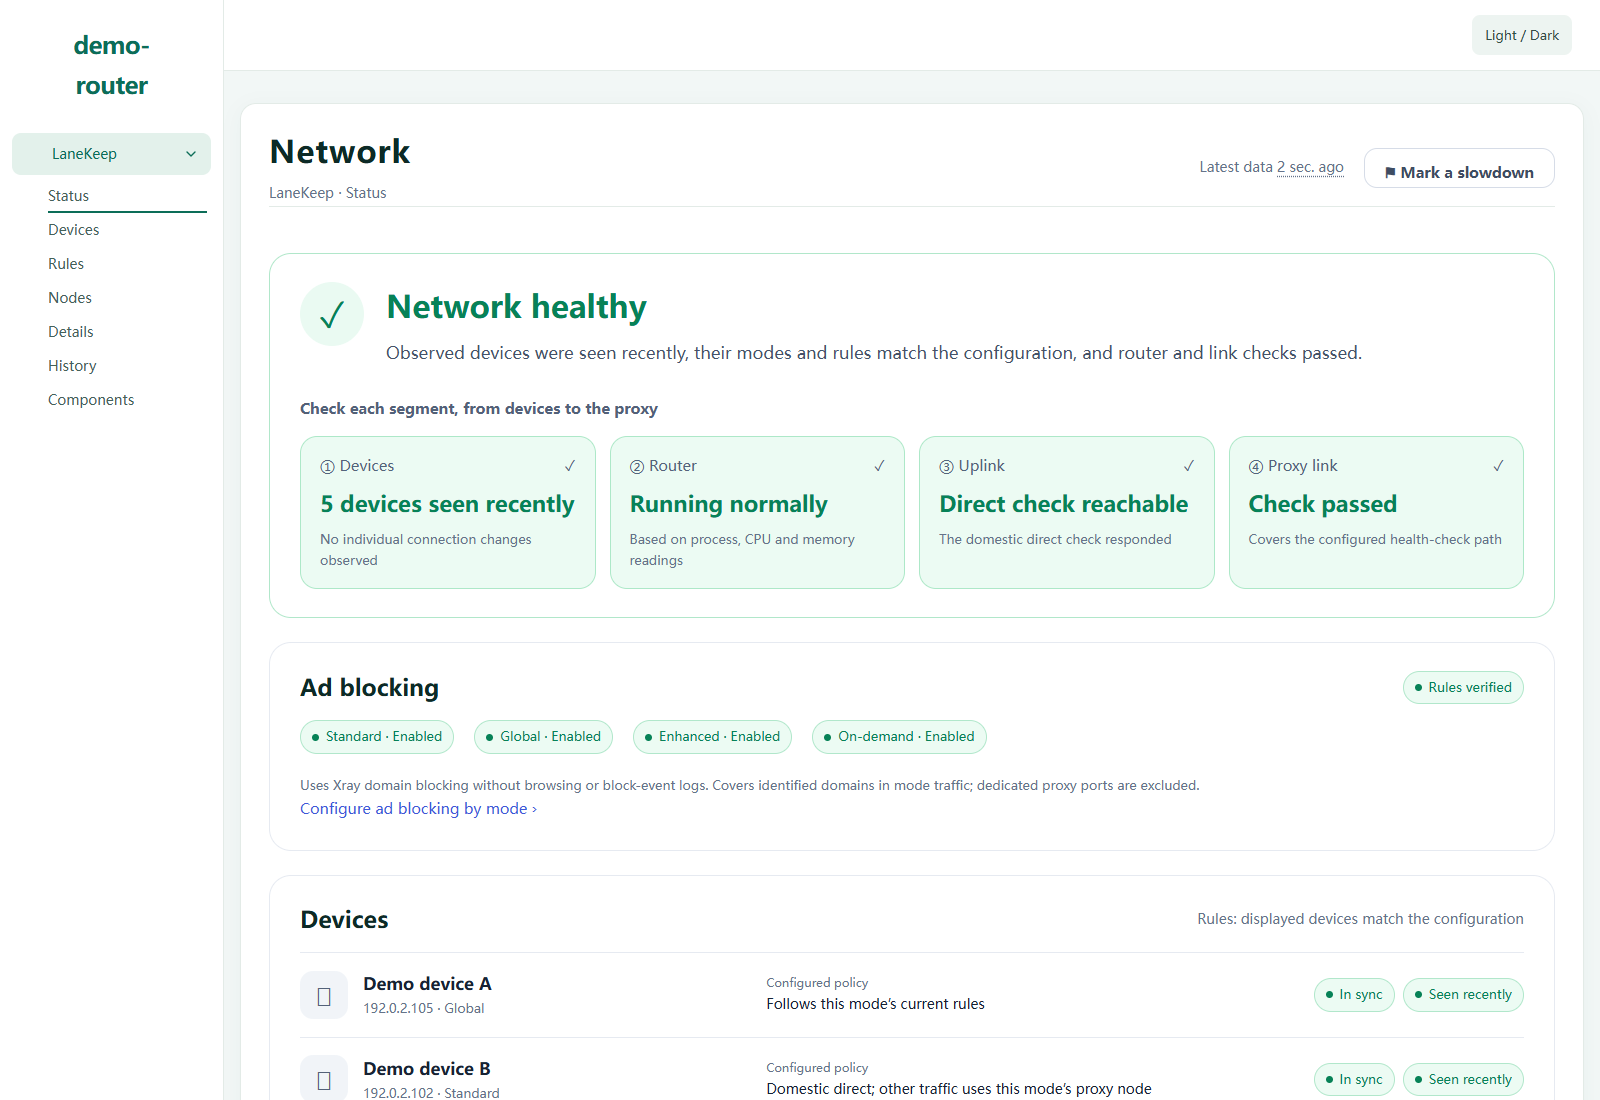
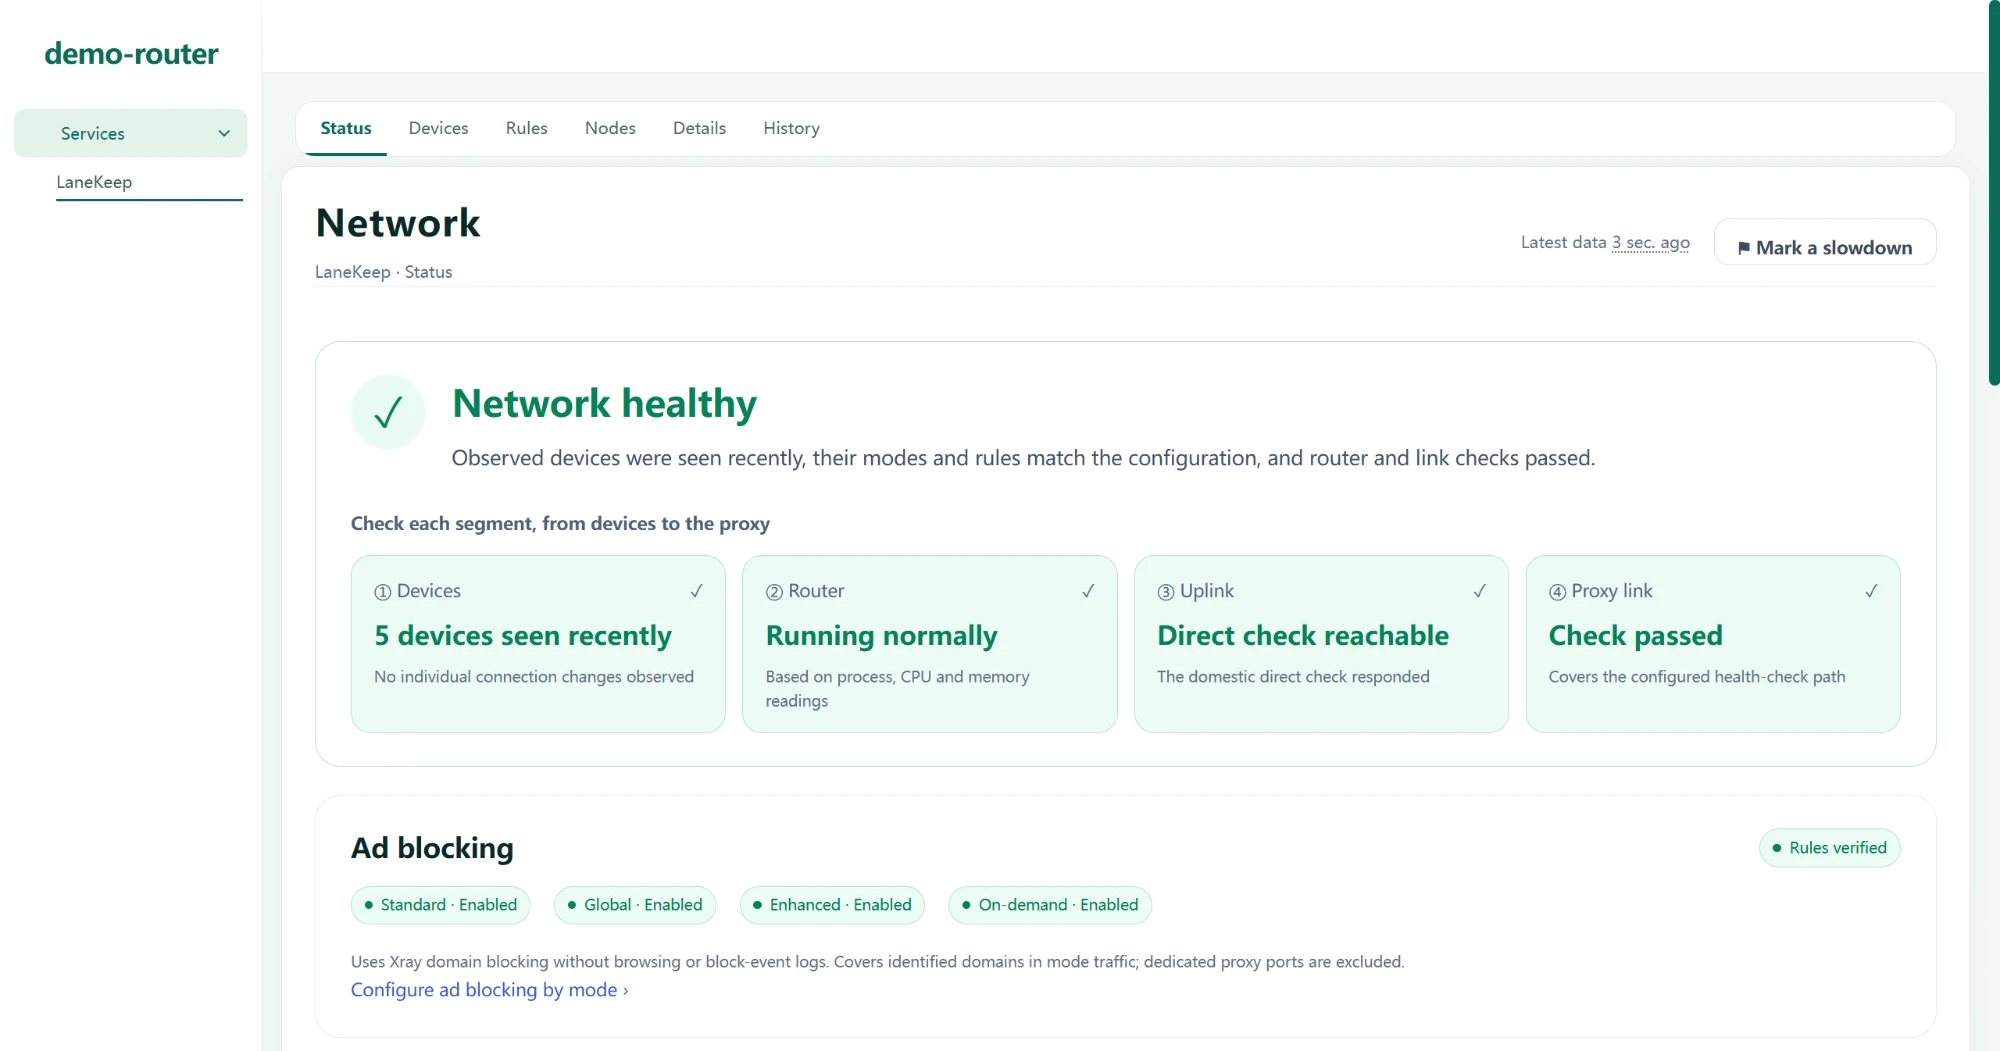
Use LuCI tabs in the demo preview and refresh the status screenshots
The preview shell now shows the six LaneKeep pages as Argon tabs above
the content, as a real LuCI install does, and the sidebar lists only
Services > LaneKeep. The dark control bar is gone: theme, language and a
demo-scenario menu sit in the header and are hidden with ?capture=1.
Narrow screens get short header labels and a working sidebar toggle.
The broken component-sample page and the missing gallery link are
removed. Both Status page screenshots are recaptured with the new shell
from synthetic demo data, and files.sha256 is updated.

diff --git a/tools/preview/public/app.js b/tools/preview/public/app.js
@@ -9,12 +9,18 @@ window.E=function(tag,attrs,children){
  Object.entries(attrs).forEach(([k,v])=>{if(v==null||v===false)return;if(typeof v==='function')el.addEventListener(k,v);else el.setAttribute(k,v===true?'':String(v));});
  function append(v){if(v==null)return;if(Array.isArray(v))v.forEach(append);else el.appendChild(v instanceof Node?v:document.createTextNode(String(v)));}append(children);return el;
 };
-const params=new URLSearchParams(location.search); document.documentElement.lang=params.get('lang')==='en'?'en':'zh-CN'; const pages={status:'状态',devices:'设备分组',rules:'规则',nodes:'节点',details:'详细数据',versions:'版本',components:'组件示例'};
+const params=new URLSearchParams(location.search); document.documentElement.lang=params.get('lang')==='en'?'en':'zh-CN'; const pages={status:'状态',devices:'设备分组',rules:'规则',nodes:'节点',details:'详细数据',versions:'版本'};
+const language=params.get('lang')==='en'?'en':'zh',shellTr=(zh,en)=>language==='en'?en:zh;
 let page=pages[params.get('page')]?params.get('page'):'status',theme=params.get('theme')==='dark'?'dark':'light';
 if(params.get('modal'))page='nodes';
 if(params.has('capture'))document.body.classList.add('capture');
 document.body.dataset.page='admin-services-lanekeep-'+page;
-function setTheme(value){theme=value;document.documentElement.dataset.argonMode=value;document.documentElement.setAttribute('data-darkmode',value==='dark');document.documentElement.classList.toggle('dark',value==='dark');document.querySelector('#theme-select').value=value;}
+function pageURL(id){const p=new URLSearchParams({page:id,theme,lang:language,scenario:params.get('scenario')||'normal'});if(params.has('capture'))p.set('capture','1');return '?'+p;}
+// Same markup luci-theme-argon renders for a firstchild menu node: ul.tabs > li.tabmenu-item-<name>[.active] > a.
+document.querySelector('#tabmenu').append(E('ul',{class:'tabs'},Object.entries(pages).map(([id,label])=>E('li',{class:'tabmenu-item-'+id+(page===id?' active':'')},E('a',{href:pageURL(id),'data-page':id,'aria-current':page===id?'page':null},label)))));
+document.querySelectorAll('.brand,#sidebar-lanekeep').forEach(a=>a.dataset.page='status');
+function refreshLinks(){document.querySelectorAll('a[data-page]').forEach(a=>a.setAttribute('href',pageURL(a.dataset.page)));}
+function setTheme(value){theme=value;document.documentElement.dataset.argonMode=value;document.documentElement.setAttribute('data-darkmode',value==='dark');document.documentElement.classList.toggle('dark',value==='dark');refreshLinks();}
 setTheme(theme);
 const ui={
  menu:{load:()=>Promise.resolve({children:{admin:{children:{services:{children:{lanekeep:{children:{details:{}}}}}}}}}),flushCache:()=>{}},
@@ -28,7 +34,7 @@ const request={post:()=>Promise.reject(new Error('HTTP RPC is disabled in local 
 const real=window.__lkReal;window.L=Object.create(window.LuCI.prototype);L.loaded=true;
 real.env.base_url='/luci-static/resources';real.env.lang=document.documentElement.lang;real.env.resource='/luci-static/resources';
 L.resource=p=>'/luci-static/resources/'+p;L.hasViewPermission=()=>true;
-L.url=(...path)=>{const p=path.join('/').split('/').pop();return pages[p]?'?'+new URLSearchParams({page:p,theme,lang:params.get('lang')||'zh',scenario:params.get('scenario')||'normal'}):'#preview-only';};
+L.url=(...path)=>{const p=path.join('/').split('/').pop();return pages[p]?pageURL(p):'#preview-only';};
 real.classes.ui=Object.assign(ui,{addNotification:(title,node)=>{window.lkOfflineNotifications.push({title:String(title),text:node&&node.textContent||''});}});
 window.lkOfflineNotifications=[];real.classes.rpc=rpc;real.classes.request=request;
 real.classes.uci={load:function(){return Promise.resolve();},sections:function(){return [{zonename:params.get('tz')||'Asia/Shanghai',timezone:params.has('tz')?'':'CST-8'}];}};
@@ -39,17 +45,30 @@ real.View.prototype.__init__=function(){window.lkOfflineViewReady=realViewInit.a
 window.previewLoadModule=loadModule;
 async function loadModule(name){return L.require(window.LaneKeepModules[name]||name);}
 
-function navigate(){const p=new URLSearchParams({page:document.querySelector('#page-select').value,scenario:document.querySelector('#scenario-select').value,theme:document.querySelector('#theme-select').value,lang:document.querySelector('#language-select').value});const modal=document.querySelector('#modal-select').value;if(modal){p.set('page','nodes');p.set('modal',modal);}location.search=p;}
-Object.entries(pages).forEach(([id,label])=>{document.querySelector('#page-select').append(E('option',{value:id},label));document.querySelector('#navigation').append(E('li',{class:page===id?'active':''},E('a',{href:'?'+new URLSearchParams({page:id,theme,lang:params.get('lang')||'zh',scenario:params.get('scenario')||'normal'})},label)));});
-document.querySelector('#language-select').value=params.get('lang')||'zh';document.querySelector('#page-select').value=page;document.querySelector('#scenario-select').value=params.get('scenario')||'normal';document.querySelector('#modal-select').value=params.get('modal')||'';
-['page','scenario','theme','modal','language'].forEach(id=>document.querySelector('#'+id+'-select').addEventListener('change',navigate));
+// Preview-only switches live in the header; ?capture=1 hides them and keeps the LuCI tabs.
+if(language==='en'){document.title='LaneKeep · Local preview';document.querySelector('.showSide').setAttribute('aria-label','Toggle navigation');document.querySelector('#preview-controls').setAttribute('aria-label','Local preview controls');var previewWords={'服务':'Services','演示场景':'Demo scenario','场景':'Scenario','弹窗':'Dialog','一切正常':'Normal','异常和报错':'Errors','空列表':'Empty','名称保真检查':'Name fidelity','名称超长':'Long names','18 个节点':'18 nodes','首次读取失败':'First read fails','断线保护已触发':'Kill switch triggered','断线保护未知':'Kill switch unknown','测试失败':'Test failed','实验性节点':'Experimental node','按钮不可用':'Disabled actions','RPC 读取失败':'Read failure','无':'None','新增节点':'Add node','新增两跳链':'Add chain','分享链接 / 订阅导入':'Import','本地假数据 · RPC 仅内存模拟 · 刷新复原':'Demo data · In-memory RPC · Reload to reset','浅色 / 深色':'Light / Dark','浅 / 深':'Theme'};document.querySelectorAll('#preview-controls,#mainmenu').forEach(root=>{var walker=document.createTreeWalker(root,NodeFilter.SHOW_TEXT);while(walker.nextNode()){var text=walker.currentNode,key=text.data.trim();if(previewWords[key])text.data=text.data.replace(key,previewWords[key]);}});}
+function navigate(){const p=new URLSearchParams({page,scenario:document.querySelector('#scenario-select').value,theme,lang:language});const modal=document.querySelector('#modal-select').value;if(modal){p.set('page','nodes');p.set('modal',modal);}if(params.has('capture'))p.set('capture','1');location.search=p;}
+document.querySelector('#scenario-select').value=params.get('scenario')||'normal';document.querySelector('#modal-select').value=params.get('modal')||'';
+['scenario','modal'].forEach(id=>document.querySelector('#'+id+'-select').addEventListener('change',navigate));
 document.querySelector('#appearance').addEventListener('click',()=>{setTheme(theme==='dark'?'light':'dark');params.set('theme',theme);history.replaceState(null,'','?'+params);});
-document.querySelector('.showSide').addEventListener('click',()=>document.body.classList.toggle('preview-menu'));
-document.addEventListener('click',e=>{const a=e.target.closest('a');if(a?.getAttribute('href')==='#preview-only'){e.preventDefault();ui.showModal('本地预览',[E('p',{},'此入口属于路由器其他页面，本期预览范围为分流管理六页。'),E('div',{class:'right'},E('button',{class:'cbi-button',click:ui.hideModal},'关闭'))]);}});
+document.querySelector('#language').addEventListener('click',()=>{const p=new URLSearchParams(params);p.set('lang',language==='en'?'zh':'en');p.set('theme',theme);location.search=p;});
+const demo=document.querySelector('#preview-demo'),demoButton=demo.querySelector('button'),demoPanel=demo.querySelector('.preview-demo-panel');
+function toggleDemo(open){demoPanel.hidden=!open;demoButton.setAttribute('aria-expanded',String(open));}
+demoButton.addEventListener('click',()=>toggleDemo(demoPanel.hidden));
+demo.addEventListener('keydown',e=>{if(e.key==='Escape'&&!demoPanel.hidden){toggleDemo(false);demoButton.focus();}});
+// Argon's narrow-screen menu: .showSide opens .main-left.active over .darkMask.active.
+const sidebar=document.querySelector('#mainmenu'),mask=document.querySelector('.darkMask');
+function toggleMenu(open){sidebar.classList.toggle('active',open);mask.classList.toggle('active',open);}
+document.querySelector('.showSide').addEventListener('click',()=>toggleMenu(!sidebar.classList.contains('active')));
+mask.addEventListener('click',()=>toggleMenu(false));
+document.querySelector('#mainmenu .menu').addEventListener('click',e=>{e.currentTarget.classList.toggle('active');e.currentTarget.nextElementSibling.classList.toggle('active');});
+document.addEventListener('click',e=>{if(!demoPanel.hidden&&!demo.contains(e.target))toggleDemo(false);const a=e.target.closest('a');if(a?.getAttribute('href')==='#preview-only'){e.preventDefault();ui.showModal(shellTr('本地预览','Local preview'),[E('p',{},shellTr('此入口属于路由器其他页面，本期预览范围为分流管理六页。','This entry belongs to other router pages. The preview covers the six LaneKeep pages.')),E('div',{class:'right'},E('button',{class:'cbi-button',click:ui.hideModal},shellTr('关闭','Close')))]);}});
+const viewModule=window.previewReady.then(()=>loadModule('view.lanekeep.'+page));
+// Translate the tabs once the view's modules are cached, so they stay readable even if the view itself fails.
+const shellText=viewModule.then(()=>loadModule('lanekeep.i18n')).then(dict=>{document.querySelectorAll('#tabmenu a').forEach(n=>n.textContent=dict.text(n.textContent));return dict;});shellText.catch(()=>{});
 (async()=>{
- await window.previewReady;
- const module=await loadModule('view.lanekeep.'+page);await window.lkOfflineViewReady;if(window.lkOfflineNotifications.length)throw new Error('Real LuCI View initialization reported an error');
- const dict=await loadModule('lanekeep.i18n');if(dict.language==='en'){document.querySelector('#appearance').textContent='Light / Dark';document.querySelector('.showSide').setAttribute('aria-label','Toggle navigation');var previewWords={'LaneKeep · 本地假数据':'LaneKeep · Local demo','页面':'Page','场景':'Scenario','外观':'Theme','语言':'Language','弹窗':'Dialog','一切正常':'Normal','异常和报错':'Errors','空列表':'Empty','名称超长':'Long names','18 个节点':'18 nodes','首次读取失败':'First read fails','断线保护已触发':'Kill switch triggered','断线保护未知':'Kill switch unknown','测试失败':'Test failed','实验性节点':'Experimental node','按钮不可用':'Disabled actions','RPC 读取失败':'Read failure','浅色':'Light','深色':'Dark','中文':'中文','无':'None','新增节点':'Add node','新增两跳链':'Add chain','分享链接 / 订阅导入':'Import','截图目录':'Screenshot gallery','RPC 仅内存模拟 · 刷新复原':'In-memory demo · Reload to reset'};var walker=document.createTreeWalker(document.querySelector('#preview-controls'),NodeFilter.SHOW_TEXT);while(walker.nextNode()){var text=walker.currentNode,key=text.data.trim();if(previewWords[key])text.data=text.data.replace(key,previewWords[key]);}}document.querySelectorAll('#navigation a,#page-select option').forEach(n=>n.textContent=dict.text(n.textContent));
+ const module=await viewModule;await window.lkOfflineViewReady;if(window.lkOfflineNotifications.length)throw new Error('Real LuCI View initialization reported an error');
+ const dict=await shellText;
  const modal=params.get('modal');if(modal){const label={node:'新增节点',chain:'新增两跳链',import:'导入'}[modal],button=document.querySelector('.lk-page-actions')?.children[{node:3,chain:2,import:1}[modal]]||[...document.querySelectorAll('#view button')].find(b=>b.textContent===dict.text(label));if(!button)throw new Error('Dialog trigger missing');button.click();}
  document.documentElement.dataset.ready='true';
 })().catch(e=>{document.querySelector('#view').dataset.error='true';document.querySelector('#view').textContent='本地预览加载失败：'+e.message;console.error(e);document.documentElement.dataset.ready='error';});

diff --git a/tools/preview/public/index.html b/tools/preview/public/index.html
@@ -10,22 +10,21 @@
 <script src="/module-map.js" defer></script><script src="/luci-runtime.js" defer></script><script src="/mock-rpc.js" defer></script><script src="/app.js" defer></script>
 </head>
 <body class="lang_zh-cn logged-in" data-page="admin-services-lanekeep-status">
-<aside id="preview-controls" aria-label="本地预览控制">
-<strong>LaneKeep · 本地假数据</strong>
-<label>页面 <select id="page-select"></select></label>
-<label>场景 <select id="scenario-select"><option value="normal">一切正常</option><option value="error">异常和报错</option><option value="empty">空列表</option><option value="names">名称保真检查</option><option value="long">名称超长</option><option value="many">18 个节点</option><option value="rpc-once">首次读取失败</option><option value="triggered">断线保护已触发</option><option value="unknown">断线保护未知</option><option value="failed">测试失败</option><option value="experimental">实验性节点</option><option value="disabled">按钮不可用</option><option value="rpc-error">RPC 读取失败</option></select></label>
-<label>外观 <select id="theme-select"><option value="light">浅色</option><option value="dark">深色</option></select></label>
-<label>语言 <select id="language-select"><option value="zh">中文</option><option value="en">English</option></select></label>
-<label>弹窗 <select id="modal-select"><option value="">无</option><option value="node">新增节点</option><option value="chain">新增两跳链</option><option value="import">分享链接 / 订阅导入</option></select></label>
-<a href="/phase2-gallery.html">截图目录</a><span>RPC 仅内存模拟 · 刷新复原</span>
-</aside>
 <div class="main">
  <div class="main-left" id="mainmenu">
   <div class="sidenav-header d-flex align-items-center"><a class="brand" href="?page=status">demo-router</a></div>
-  <ul class="nav"><li class="slide"><a class="menu active" href="?page=status">LaneKeep</a><ul class="slide-menu" id="navigation"></ul></li></ul>
+  <ul class="nav"><li class="slide"><a class="menu active" data-title="Services">服务</a><ul class="slide-menu active"><li class="active"><a id="sidebar-lanekeep" href="?page=status">LaneKeep</a></li></ul></li></ul>
  </div>
  <div class="main-right">
-  <header class="bg-primary"><div class="fill"><div class="container"><div class="flex1"><button type="button" class="showSide" aria-label="切换导航"></button><a class="brand" href="?page=status">demo-router</a></div><div class="header-actions"><button id="appearance" type="button" class="cbi-button">浅色 / 深色</button></div></div></div></header>
+  <header class="bg-primary"><div class="fill"><div class="container"><div class="flex1"><button type="button" class="showSide" aria-label="切换导航"></button><a class="brand" href="?page=status">demo-router</a></div><div class="header-actions" id="preview-controls" role="group" aria-label="本地预览控制">
+   <div id="preview-demo"><button type="button" class="cbi-button" aria-expanded="false" aria-controls="preview-demo-panel"><span class="pv-long">演示场景</span><span class="pv-short">场景</span></button><div class="preview-demo-panel" id="preview-demo-panel" hidden>
+    <label>场景 <select id="scenario-select"><option value="normal">一切正常</option><option value="error">异常和报错</option><option value="empty">空列表</option><option value="names">名称保真检查</option><option value="long">名称超长</option><option value="many">18 个节点</option><option value="rpc-once">首次读取失败</option><option value="triggered">断线保护已触发</option><option value="unknown">断线保护未知</option><option value="failed">测试失败</option><option value="experimental">实验性节点</option><option value="disabled">按钮不可用</option><option value="rpc-error">RPC 读取失败</option></select></label>
+    <label>弹窗 <select id="modal-select"><option value="">无</option><option value="node">新增节点</option><option value="chain">新增两跳链</option><option value="import">分享链接 / 订阅导入</option></select></label>
+    <p>本地假数据 · RPC 仅内存模拟 · 刷新复原</p>
+   </div></div>
+   <button id="language" type="button" class="cbi-button"><span class="pv-long">中文 / English</span><span class="pv-short">中 / EN</span></button>
+   <button id="appearance" type="button" class="cbi-button"><span class="pv-long">浅色 / 深色</span><span class="pv-short">浅 / 深</span></button>
+  </div></div></div></header>
   <div class="darkMask"></div><div id="maincontent"><div class="container"><div id="tabmenu"></div><div id="view"><p>正在载入本地预览…</p></div></div></div>
   <footer>LuCI · Argon</footer>
  </div>

diff --git a/tools/preview/public/preview.css b/tools/preview/public/preview.css
@@ -1,8 +1,18 @@
 /* Only preview controls and template variables. No panel component overrides. */
 :root{--light-primary:#0C6D58;--dark-primary:#61bda5;--dark-on-primary:#102c25;--dark-link-color:#8ad6c1;--dark-focus-ring:#61bda5;--dark-control-focus:#61bda5;--dark-progress-fill:#61bda5;--dark-control-ring:#61bda566;--dark-selected-bg:#23473f;--dark-selected-hover-bg:#2c554b;--dark-accent-ring:#61bda577;--dark-accent-shadow:#61bda533;--blur-radius-light:10px;--blur-opacity-light:.5;--blur-radius-dark:10px;--blur-opacity-dark:.5}
-#preview-controls{position:relative;z-index:1001;padding:10px 16px;background:#183c33;color:#fff;display:flex;align-items:center;gap:10px 18px;flex-wrap:wrap;font:13px/1.6 system-ui,sans-serif}
-#preview-controls label{display:flex;align-items:center;gap:5px;margin:0;color:inherit}#preview-controls select{color:#17372e;background:#fff;border:1px solid #a3c8ba;padding:3px 6px;min-height:28px;max-width:155px}#preview-controls a{color:#a9ead6;text-decoration:underline}#preview-controls span{font-size:12px;color:#cae3da}
+.main-left .sidenav-header .brand{margin:0 1rem;white-space:nowrap;overflow:hidden;text-overflow:ellipsis}
+:root[data-argon-mode="dark"] #preview-controls .cbi-button{color:var(--text-strong);background-color:var(--surface-active)}
+#preview-demo{position:relative}
+#preview-demo>button{display:inline-flex;align-items:center;gap:6px}
+#preview-demo>button::after{content:"";width:12px;height:12px;background-color:currentColor;-webkit-mask:url(/luci-static/argon/icon/chevron-down.svg) center/contain no-repeat;mask:url(/luci-static/argon/icon/chevron-down.svg) center/contain no-repeat}
+#preview-demo>button[aria-expanded="true"]::after{transform:rotate(180deg)}
+.preview-demo-panel[hidden]{display:none}
+.preview-demo-panel{position:absolute;inset-inline-end:0;top:calc(100% + 6px);z-index:1001;display:grid;gap:12px;width:max-content;max-width:calc(100vw - 32px);padding:14px 16px;color:var(--text-color);background:var(--surface-panel);border:1px solid var(--border-color);border-radius:var(--radius-control);box-shadow:0 8px 24px rgb(0 0 0 / 14%)}
+.preview-demo-panel label{display:grid;gap:4px;margin:0;font-size:13px;color:var(--muted-text)}
+.preview-demo-panel select{min-width:220px;max-width:100%}
+.preview-demo-panel p{margin:0;font-size:12px;color:var(--muted-text)}
+.pv-short{display:none}
+@media screen and (max-width:600px){#preview-controls .pv-long{display:none}#preview-controls .pv-short{display:inline}.preview-demo-panel{position:fixed;inset-inline:16px;top:62px;width:auto;max-width:none}.preview-demo-panel select{min-width:0;width:100%}}
+@media screen and (max-width:480px){header .fill .container .flex1 .brand{display:none}}
 body.capture #preview-controls{display:none}
-#mainmenu .slide-menu{display:block}#mainmenu .slide-menu a{display:block}
-body.preview-menu #mainmenu{left:0;display:block;z-index:999}
 #view[data-error]{color:#b82820;padding:24px}
